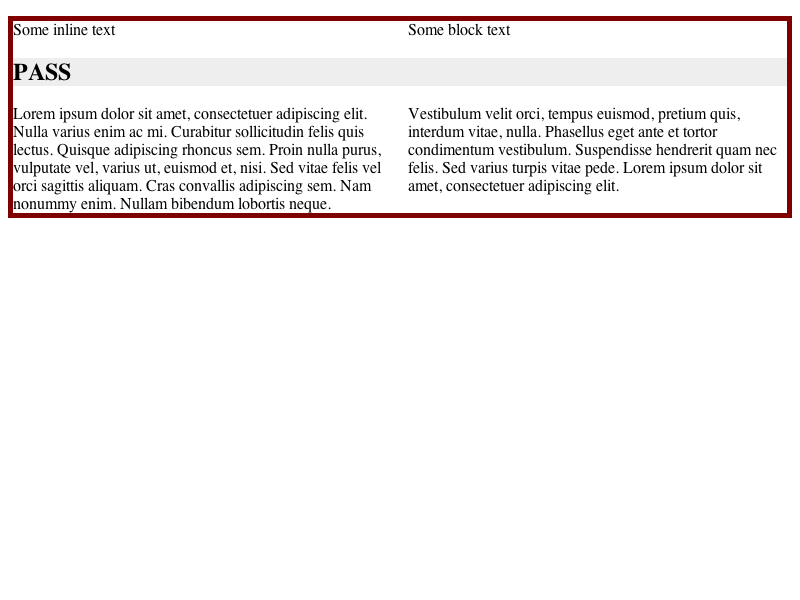
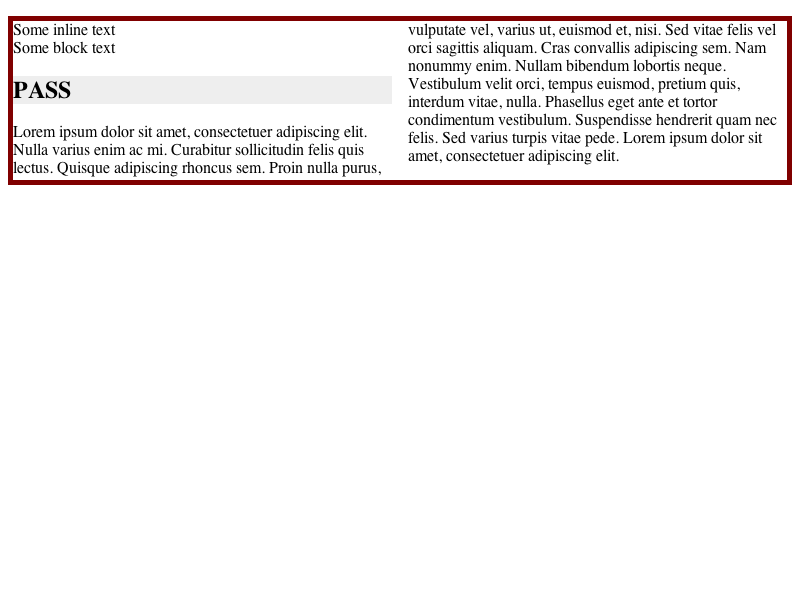
Crash in RenderObjectChildList::destroyLeftOverChildren() https://bugs.webkit.org/show_bug.cgi?id=64753
Reviewed by James Robinson.

Source/WebCore:

If any of the ancestors between column span element and containing
column's block is a continuation, then don't attempt to render the
column span by splitting the block into continuations.

Test: fast/multicol/column-span-parent-continuation-crash.html

* rendering/RenderBlock.cpp:
(WebCore::RenderBlock::columnsBlockForSpanningElement):

LayoutTests:

anonymous-split-block-crash rendering was already wrong. The fix prevents
the tree to go bad and hence does not do the column-span rendering. same issue
with clone-anonymous-block-non-inline-child-crash test.

* fast/multicol/column-span-parent-continuation-crash-expected.txt: Added.
* fast/multicol/column-span-parent-continuation-crash.html: Added.
* platform/mac/fast/multicol/span/anonymous-split-block-crash-expected.png:
* platform/mac/fast/multicol/span/anonymous-split-block-crash-expected.txt:
* platform/mac/fast/multicol/span/clone-anonymous-block-non-inline-child-crash-expected.png:
* platform/mac/fast/multicol/span/clone-anonymous-block-non-inline-child-crash-expected.txt:

Identifier: 83448@main
git-svn-id: https://svn.webkit.org/repository/webkit/trunk@94541 268f45cc-cd09-0410-ab3c-d52691b4dbfc

Changed region(s): [[0.0, 0.03, 1.0, 0.39]]

diff --git a/LayoutTests/fast/multicol/column-span-parent-continuation-crash.html b/LayoutTests/fast/multicol/column-span-parent-continuation-crash.html
@@ -1,0 +1,37 @@
+<!DOCTYPE html>
+<html>
+<body>
+<div id="console"></div>
+<style>
+div { -webkit-column-count: 1; }
+h2 { -webkit-column-span: all; }
+</style>
+<script src="../js/resources/js-test-pre.js"></script>
+<script>
+if (window.layoutTestController) {
+    layoutTestController.dumpAsText();
+	layoutTestController.waitUntilDone();
+}
+
+function runTest()
+{
+    document.body.offsetTop;
+    child = document.getElementById('test');
+    child.parentNode.removeChild(child);
+    child = document.getElementById('anything');
+    gc();
+    document.body.innerHTML = "PASS";
+
+	var successfullyParsed = true;
+	if (window.layoutTestController)
+   	    layoutTestController.notifyDone();
+}
+
+setTimeout("runTest()", 0);
+</script>
+<script src="../js/resources/js-test-post.js"></script>
+<div>
+<span id="test"><h2></span>
+</div>
+</body>
+</html>

diff --git a/Source/WebCore/rendering/RenderBlock.cpp b/Source/WebCore/rendering/RenderBlock.cpp
@@ -659,8 +659,22 @@ RenderBlock* RenderBlock::columnsBlockForSpanningElement(RenderObject* newChild)
         && !newChild->isInline() && !isAnonymousColumnSpanBlock()) {
         if (style()->specifiesColumns())
             columnsBlockAncestor = this;
-        else if (!isInline() && parent() && parent()->isRenderBlock())
+        else if (!isInline() && parent() && parent()->isRenderBlock()) {
             columnsBlockAncestor = toRenderBlock(parent())->containingColumnsBlock(false);
+            
+            if (columnsBlockAncestor) {
+                // Make sure that none of the parent ancestors have a continuation.
+                // If yes, we do not want split the block into continuations.
+                RenderObject* curr = this;
+                while (curr && curr != columnsBlockAncestor) {
+                    if (curr->isRenderBlock() && toRenderBlock(curr)->continuation()) {
+                        columnsBlockAncestor = 0;
+                        break;
+                    }
+                    curr = curr->parent();
+                }
+            }
+        }
     }
     return columnsBlockAncestor;
 }
